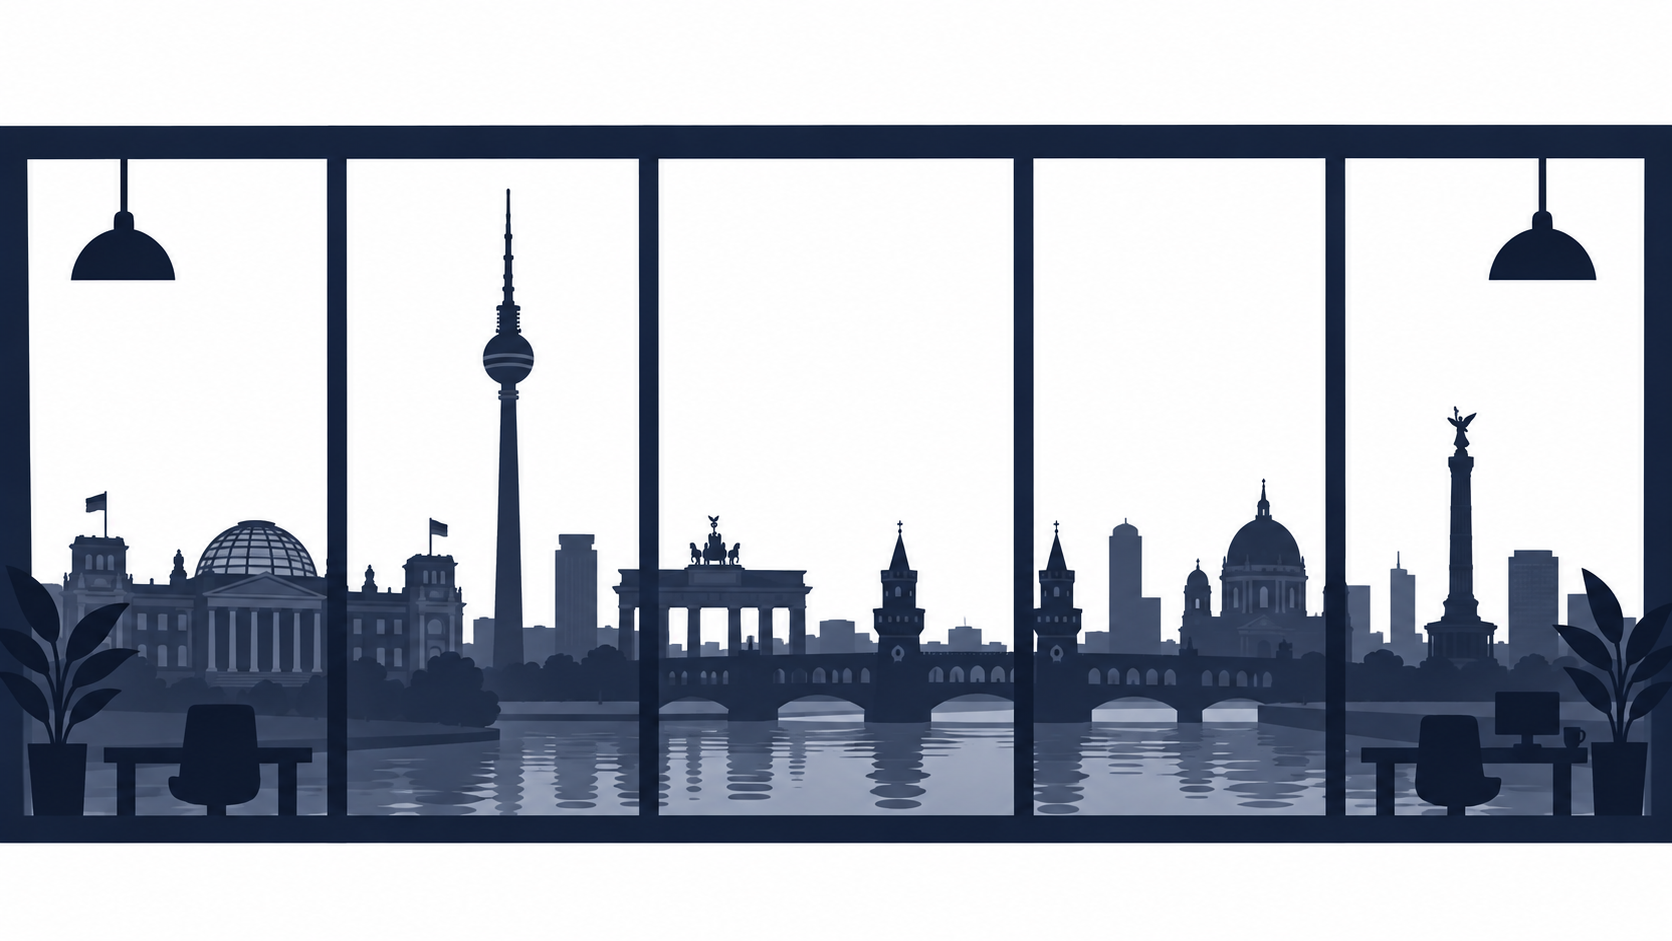
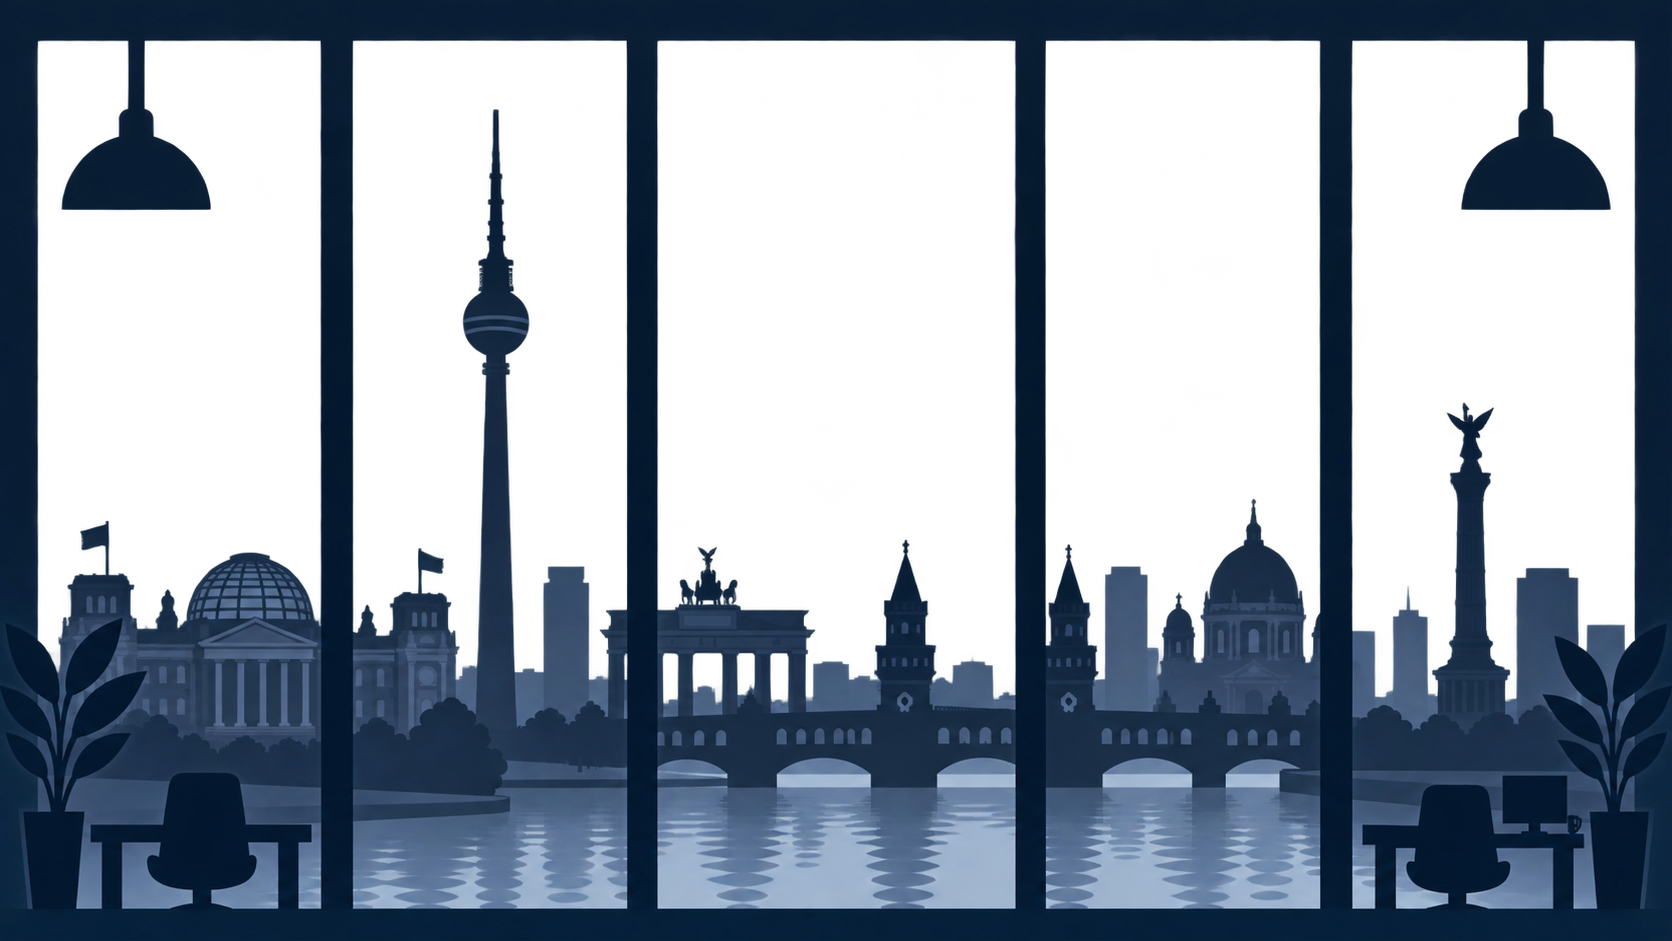
Berlin/Munich: replace background art

diff --git a/game.js b/game.js
@@ -115,7 +115,7 @@ const LEVELS = [
   {
     name: "Berlin",
     greeting: "Hallo",
-    backgroundSrc: "assets/images/bg_berlin.png",
+    backgroundSrc: "assets/images/bg_berlin.png?v=002",
     levelWidth: 3600,
     playerStart: { x: 80, y: GROUND_Y - PLAYER_HEIGHT },
     palette: { sky: "#10131c", ground: "#3a4560", platform: "#4d5b82" },
@@ -158,7 +158,7 @@ const LEVELS = [
   {
     name: "Munich",
     greeting: "Servus",
-    backgroundSrc: "assets/images/bg_munic.png",
+    backgroundSrc: "assets/images/bg_munic.png?v=002",
     levelWidth: 4200,
     playerStart: { x: 80, y: GROUND_Y - PLAYER_HEIGHT },
     palette: { sky: "#0d1730", ground: "#22406a", platform: "#2f5a8f" },
